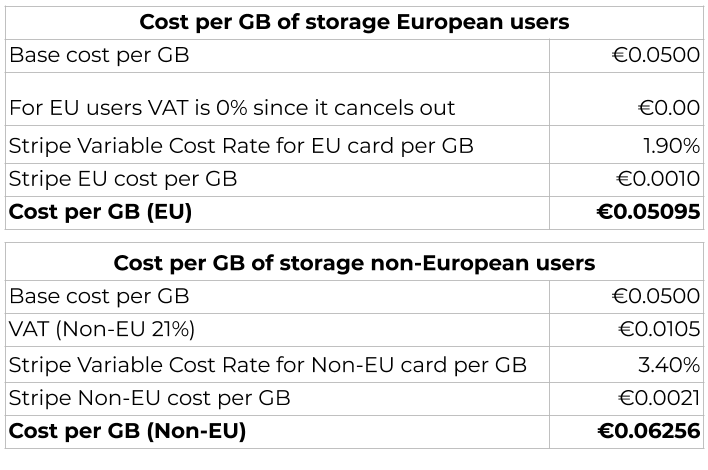
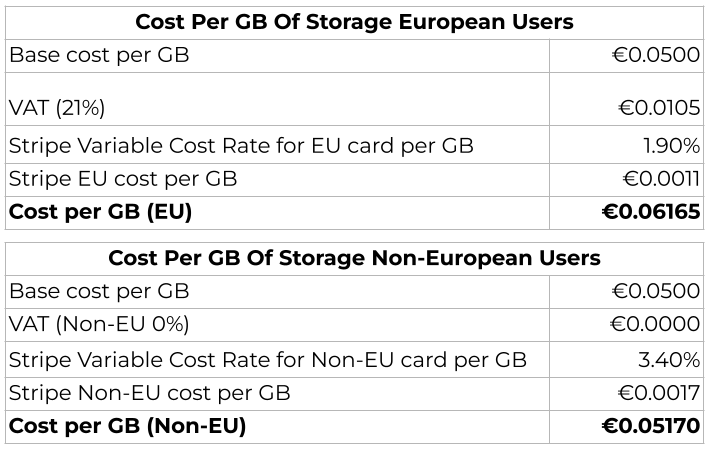
Post update How we calculated the price of ac;pic

diff --git a/blog/20200917-how-we-calculated-the-price-of-acpic.md b/blog/20200917-how-we-calculated-the-price-of-acpic.md
@@ -26,24 +26,28 @@ Altocode works in full transparency, which means everybody can see everything we
 
 We set salary milestones for different stages of the product. You can see them <a href="https://docs.google.com/spreadsheets/d/1XNd62OXI3dduxodI-9dBOUoxnAczPgm2yIk-jFFR6T4/edit#gid=0" target="_blank">here.</a>
 
-Our first milestone will enable us to work full-time in Altocode. That's a salary of €3,000 a month after tax, per founder. That's around US $3,500 after tax. We're a 2-person team, so that's €6,000 after tax a month.
+Our first milestone will enable us to work full-time in Altocode. That’s a net salary of €5,000 a month, per founder. We’re a 2-person team, so that’s €10,000 in net salaries a month.
 
-The next question is 'how many paying users do we need to make €6,000 a month after tax?'
+The next question is ‘how many paying users do we need to make €10,000 a month after tax?’
 
 We built a simple table that takes into account:
-- Net income per user: how much should the company earn from each paying user after taxes and costs.
+- Net income per user: how much net money both founders get from each paying user after deducting taxes and costs.
 - Net salary per founder: monthly salary after tax per founder.
 - Amount of monthly paying users: amount of paying users needed for each net income and net salary.
 
 <a target="_blank" href="https://docs.google.com/spreadsheets/d/1XNd62OXI3dduxodI-9dBOUoxnAczPgm2yIk-jFFR6T4/edit#gid=0"><img loading="lazy" src="img/monthly paying users required.png" alt="ac;pic monthly paying users required" style="max-width: 100%;height: auto;"></a>
 
-For each column of 'net income per user' we have the amount of paying users necessary to reach €3,000 of net monthly salary per founder.
+For each column of ‘net income per user’ we have the amount of paying users necessary to reach €5,000 of net monthly salary per founder.
 
-The next question is, 'what should be the target amount of users for the first milestone?'
+The next question is, ‘what should be the target amount of users for the first milestone?’
 
-It can't be very high, otherwise it might take too long to get there and - as a fully bootstrapped company - we only have so much runway. On the other hand, we can't go for a very low number of paying users, because prices might get too high (we haven't added operating costs and taxes yet) and prevent people from becoming paying users.
+It can’t be very high, otherwise it might take too long to get there and - as a fully bootstrapped company - we only have so much runway. On the other hand, we can’t go for a very low number of paying users, because prices might get too high (we haven’t added operating costs and taxes yet) and prevent people from becoming paying users.
 
-In the spirit of <a href="https://kk.org/thetechnium/1000-true-fans/" target="_blank">Kevin Kelly's '1,000 true fans' article,</a> we feel that around 1,500 to 2,000 paying users should allow us to reach our first milestone. If we can't get that amount of paying users in a few months, we have bigger issues than pricing. Still, we needed to continue our analysis to get to a price.
+The table above shows just how hard it is to bootstrap a startup. To earn a good salary, we need to get between 2,000 and 5,000 paying users, which is definitely a much taller order than working a normal (if challenging) job.
+
+In the end, whatever base price we set for users, we will still need thousands of paying users to make a living out of Altocode. A tall order, but one we’re eager to see through.
+
+In the end, we want to offer the lowest price that will not paint us into a financially inviable corner. Having to support 4,000 paying users so we can have a salary is tough, but perhaps at the edge of what’s viable. That yields a net €2.5 per paying user, on top of which we will add income taxes plus the remaining costs.
 
 #### 2. How much does it cost to maintain the service and the company?
 
@@ -77,9 +81,9 @@ Any company, and particularly a bootstrapped startup, needs to have working capi
 
 So, how do we take into account the infrastructure cost, product-related services, business-related services and working capital? **We set a cost budget per paying user**. Since all these costs are positively correlated to the size of the business, we can infer that the more users we have - especially in the beginning - the more costs we'll have to account for. Of course, these won't be linear, but in the early stages these costs can add up quickly and halt growth. As we grow we'll have to review this cost item, but now we have to ensure a solid service and business survival.
 
-We concluded that these items combined add €2 per paying user.
+We concluded that these items combined add €2.5 per paid user.
 
-An heuristic way to think about this is the following: if we have 100 paying users, it is reasonable to have about €200 of monthly expenses; at 1,000 paying users, it is reasonable to have a budget of €2,000.
+An heuristic way to think about this is the following: if we have 100 paying users, it is reasonable to have about €250 of monthly expenses besides our salaries; at 1,000 paying users, it is reasonable to have a budget of €2,500.
 
 f. Value Added Tax:
 We have to make a differentiation here.
@@ -109,17 +113,11 @@ With all this information we built another table, and built the price from the n
 
 <a target="_blank" href="https://docs.google.com/spreadsheets/d/1XNd62OXI3dduxodI-9dBOUoxnAczPgm2yIk-jFFR6T4/edit#gid=0"><img loading="lazy" src="img/fixed price calculation.png" alt="ac;pic Fixed price calculation" style="max-width: 100%;height: auto;"></a>
 
-You'll note that in the costs line (those €2 per user) we affected half of it with Value Added Tax (VAT). We're estimating that half of our costs will be affected by VAT, so only €1 of the cost per user will incur VAT.
+So, the only difference between our European and non-European paying users is that of VAT (only for European paying users) and Stripe costs (slightly higher for non-European paid users). It’s important to note that we do not receive any benefits from any of those differences. What gets collected as taxes must go to the national tax agency, and the differences in credit card processing are entirely for Stripe. This makes European and non-European users equally profitable for us, hence avoiding any type of service or attention bias. 
 
-An interesting observation (that took us a while to figure out) is that we should charge an extra amount to non-European users for the VAT incurred by those €2 per user. These services accrue VAT, but because we don't have to pay VAT for non-European users, we cannot use their payment to offset the VAT incurred by those services. Hence, we need to charge them extra to keep things fair between European and non-European users. In addition to this, this fairness ensures that both European and non-European users will be equally profitable to us.
-
-Previously, we had circled between 1,500 and 2,000 paying users to reach our initial goal. That meant a net income per user between €3 and €4. With the numbers more clear, we concluded that our best choice is to go with €3 of net income per user.
-
-The fixed part of ac;pic's price will be:
-- €9 a month for European Union users.
-- €7.50 for non-European Union users.
-
-**We need 2,000 monthly paying users to reach the first milestone.**
+In summary, the fixed part of ac;pic's price will be:
+- €8.47 a month for European Union users.
+- €7.14 for non-European Union users.
 
 #### What about the storage?
 If you followed the cost breakdown you might have noticed that we haven't considered the storage cost for the paid accounts. We accounted for servers to keep the service up & running and the storage cost for free accounts, but the bulk of the cost for a photo and video organization service comes from storage.
@@ -132,11 +130,11 @@ So, considering all of the above, the price for storage in ac;pic is:
 
 <a target="_blank" href="https://docs.google.com/spreadsheets/d/1XNd62OXI3dduxodI-9dBOUoxnAczPgm2yIk-jFFR6T4/edit#gid=0"><img loading="lazy" src="img/cost per gb of storage.png" alt="ac;pic cost per gb of storage" style="max-width: 100%;height: auto;"></a>
 
-**These prices apply to storage exceeding the free 2 GB.**
+**These prices apply to storage exceeding the free 5 GB.**
 
-So, let's say you're using 30 GB, your monthly payment would be: Fixed amount + (30 GB used - 2 GB free = 28 GB).
-- European Union users: €9 + ( €0.0509 * 28 GB ) = €10.42
-- Non-European Union users: €7.75 + ( €0.0625 * 28 GB) = €9.5
+So, let's say you're using 30 GB, your monthly payment would be: Fixed amount + (30 GB used - 5 GB free = 25 GB).
+- European Union users: €8.47 + ( €0.06165 * 25 GB ) = €10.01
+- Non-European Union users: €7.14 + ( €0.05170 * 25 GB) = €8.43
 
 ## 2. Is this a price our users will be willing to pay?
 
@@ -156,7 +154,7 @@ By splitting the price in 2 we align all the incentives:
 
 Also, this creates additional positive incentives:
 - The more space used, the better price per GB we can get from providers, which in turn will lower the prices per GB for users. More space used by more users rewards the users.
-- The fixed part of the price will also go down with more users and more usage: Altocode's employees will have a salary cap of €9,000 after tax a month. If and when we hit that cap, and of course considering all fixed and variable costs, as well as savings and necessary investments, all financial excess will impact the fixed price by lowering it.
+- The fixed part of the price will also go down with more users and more usage: Altocode’s employees will have a salary cap of €10,000 after tax a month. If and when we hit that cap, and of course considering all fixed and variable costs, as well as savings and necessary investments, all financial excess will impact the fixed price by lowering it.
 
 In the long run, the bigger we get, the cheaper the product gets: the economies of scale are distributed to our users.
 
@@ -167,7 +165,7 @@ Yes. Mainly the <a href="https://altocode.nl/blog/flat-rate-bias" target="_blank
 
 This price model will probably be harder to bootstrap at the beginning. We're not blind to the fact that not choosing the widely used all-you-can-eat flat-rate is a clear counterpoint to what's going on in the market. But, at the same time, that's exactly the point.
 
-Also, unless we're very good at communicating how much a user will be charged at the end of each month, it creates uncertainty. Users need to know how much they'll be charged way before the end of each cycle. Because of this, in ac;pic users can set a storage limiter, which by default will be at 100 GB. That information must be clearly displayed on the interface and with the corresponding alerts. Users have full control on how much storage they use.
+Also, unless we're very good at communicating how much a user will be charged at the end of each month, it creates uncertainty. Users need to know how much they'll be charged way before the end of each cycle. Because of this, **in ac;pic users can set a storage limiter, which by default will be at 100 GB.** That information must be clearly displayed on the interface and with the corresponding alerts. Users have full control on how much storage they use.
 
 ## Is this model the best option?
 
